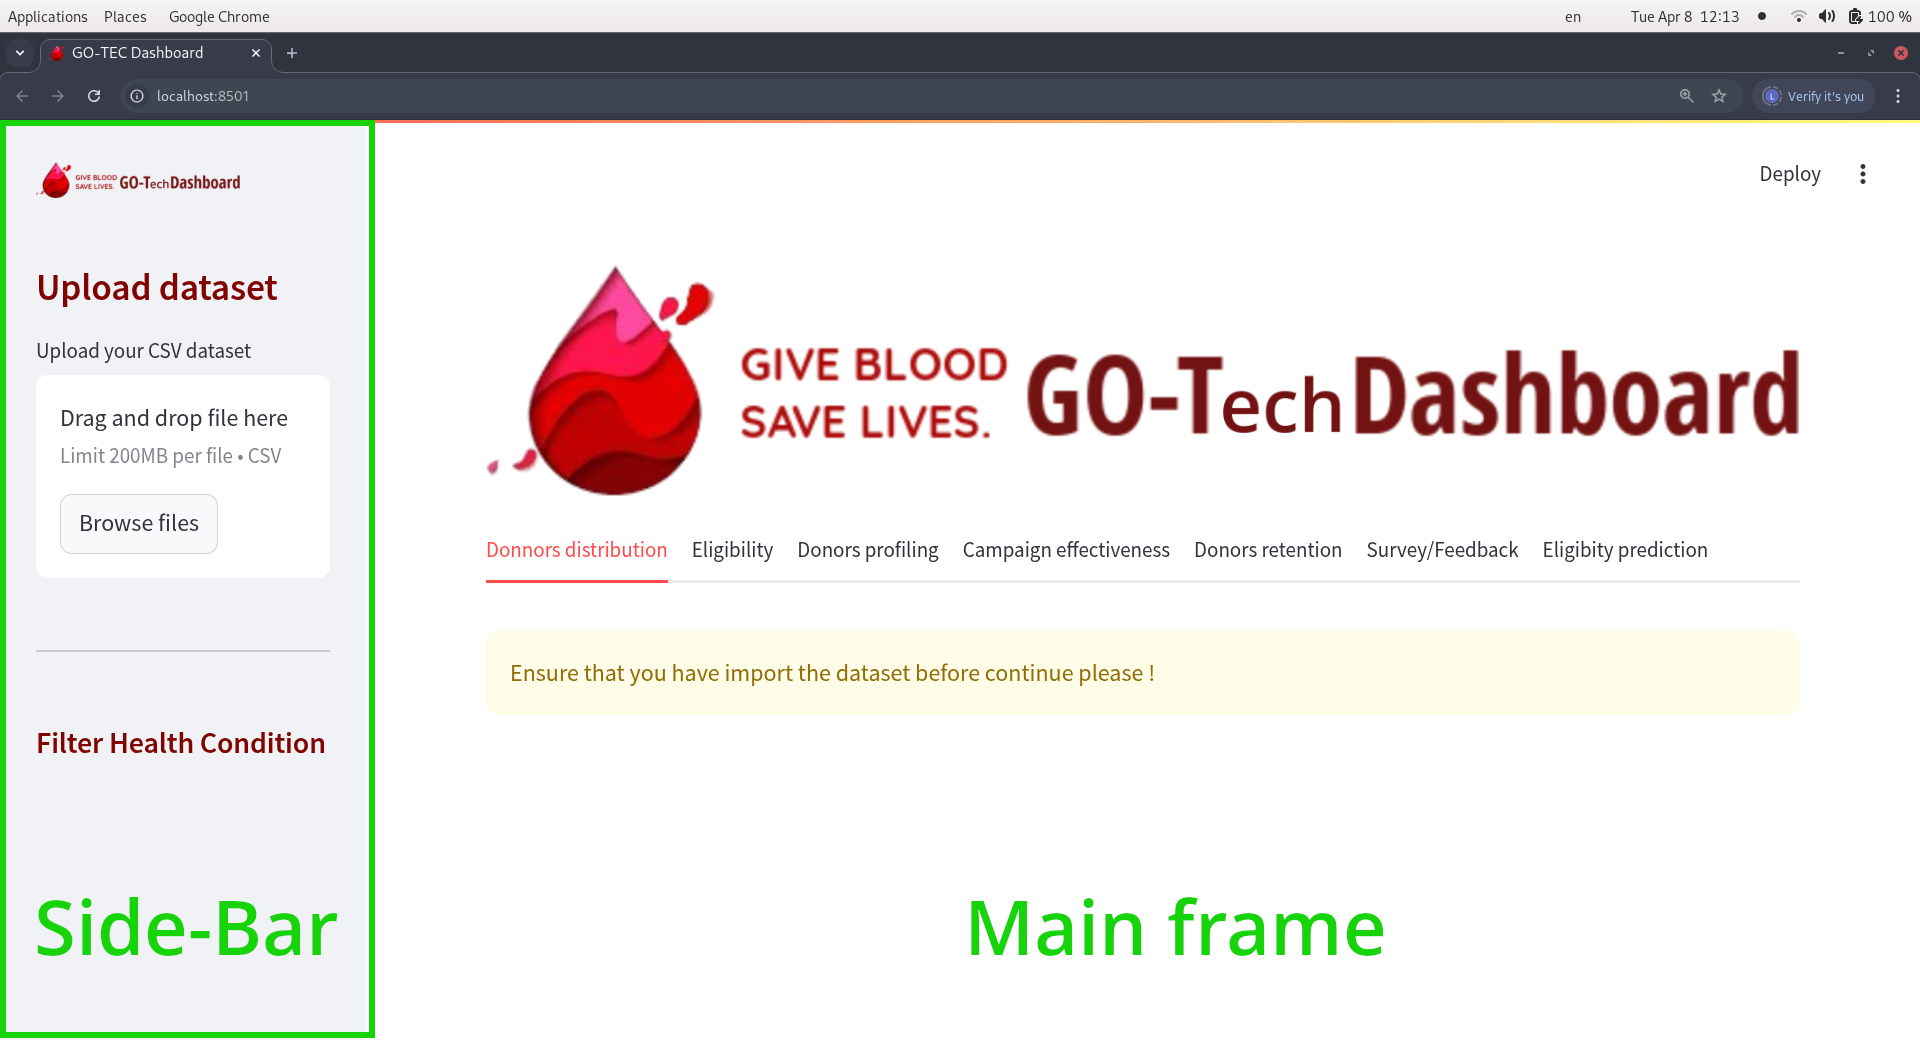
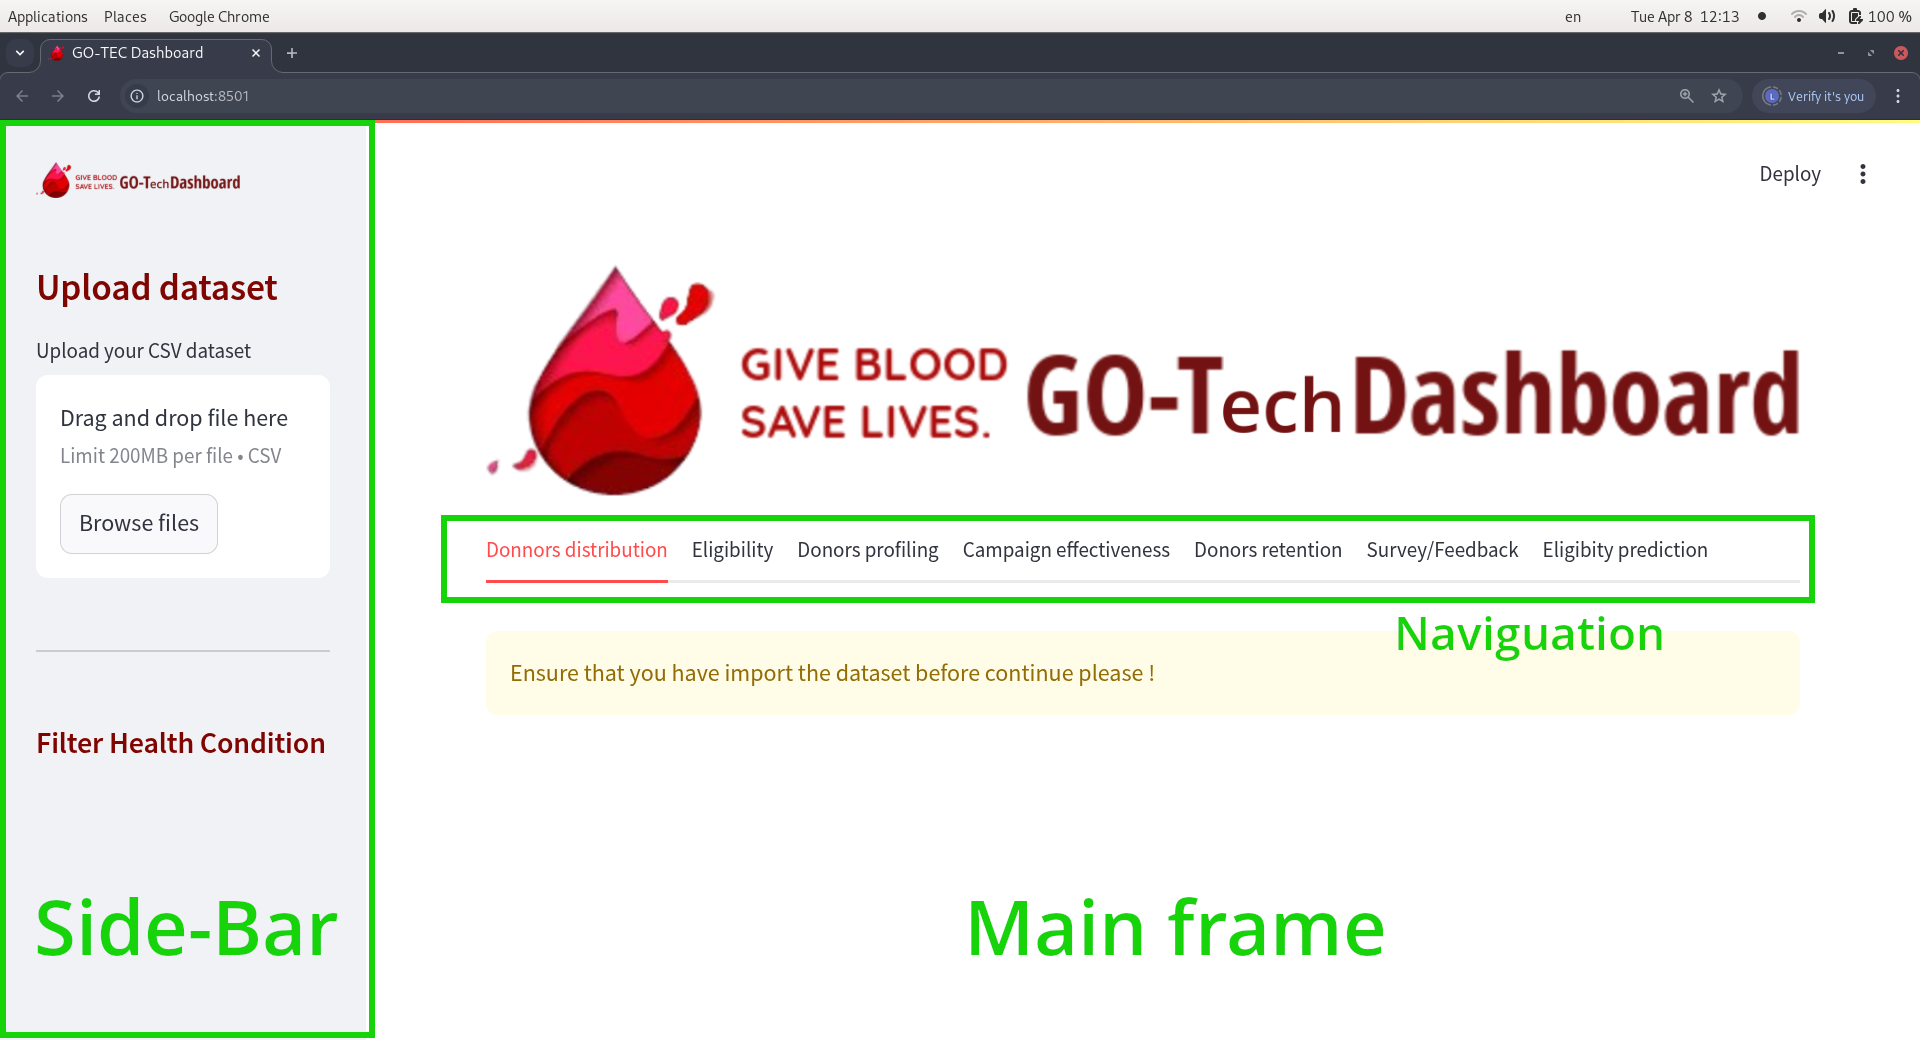
modifiying the readme file

Changed region(s): [[0.2188, 0.5538, 0.9688, 0.6462], [0.2188, 0.4923, 0.9688, 0.5231]]

diff --git a/READMe.md b/READMe.md
@@ -11,11 +11,17 @@ streamlit run dash_app.py
 the dashboard show in your web navigator is a fully interactive dashboard made to be intuitive for the user.</br>
 It is compose of two parts the main part which is showing you information from data and the sidebar used to give you
 more access to what you may want.</br>
+The central part contain the navigatio to naviguate amoung different otions and under the navigation you have the part to see the different informations.
+
 ![interface](images/readme_imgs/dashboard_view.png)
 
-# Map distribution per arrondissement and Quarter
+# Donors distribution
 
-Firstly when the code is being run, we will be taken to the dashboard. This will display and error and this error indicates that first we need to load the dataset. So after loading the dataset
+To ensure you have upload the dataset on which you want to extract information you get a customise message which indicates that first we need to load the dataset.</br>
+
+## Upload the dataset.
+
+To upload the dataset you will need to go in the sidebar and click on the upload button to load your <h2 style="font-size:15px;">.csv</h2> file.
 
 After uploading the dataset(CSV), we will be given the opportunity to select the eligibility column and if this is not chosen it will show error. so after loading the dataset we choose the column "ELIGIBLE AU DON" The filter for this section is given immediately we do select the section "ELIGIBLE AU DON" which are "temporary non eligible, definitely non eligible and eligible. This tells us that choosing the section of definitely eligible won't output because of sparsity of those columns
 
@@ -27,6 +33,8 @@ when temporary non eligible is taken it will display the number of non eligible 
 
 #Ideal Donor Profile
 Here we still choose variable related to eligibility and select features we want to include in our clusters. the cluster with the highest number of eligible donors is considered and later eligibility score computer. The average age of the best donors is outputted which indicates the best donors related to our clusters
+
+# Eligibility
 
 # Campaign effectiveness
 
